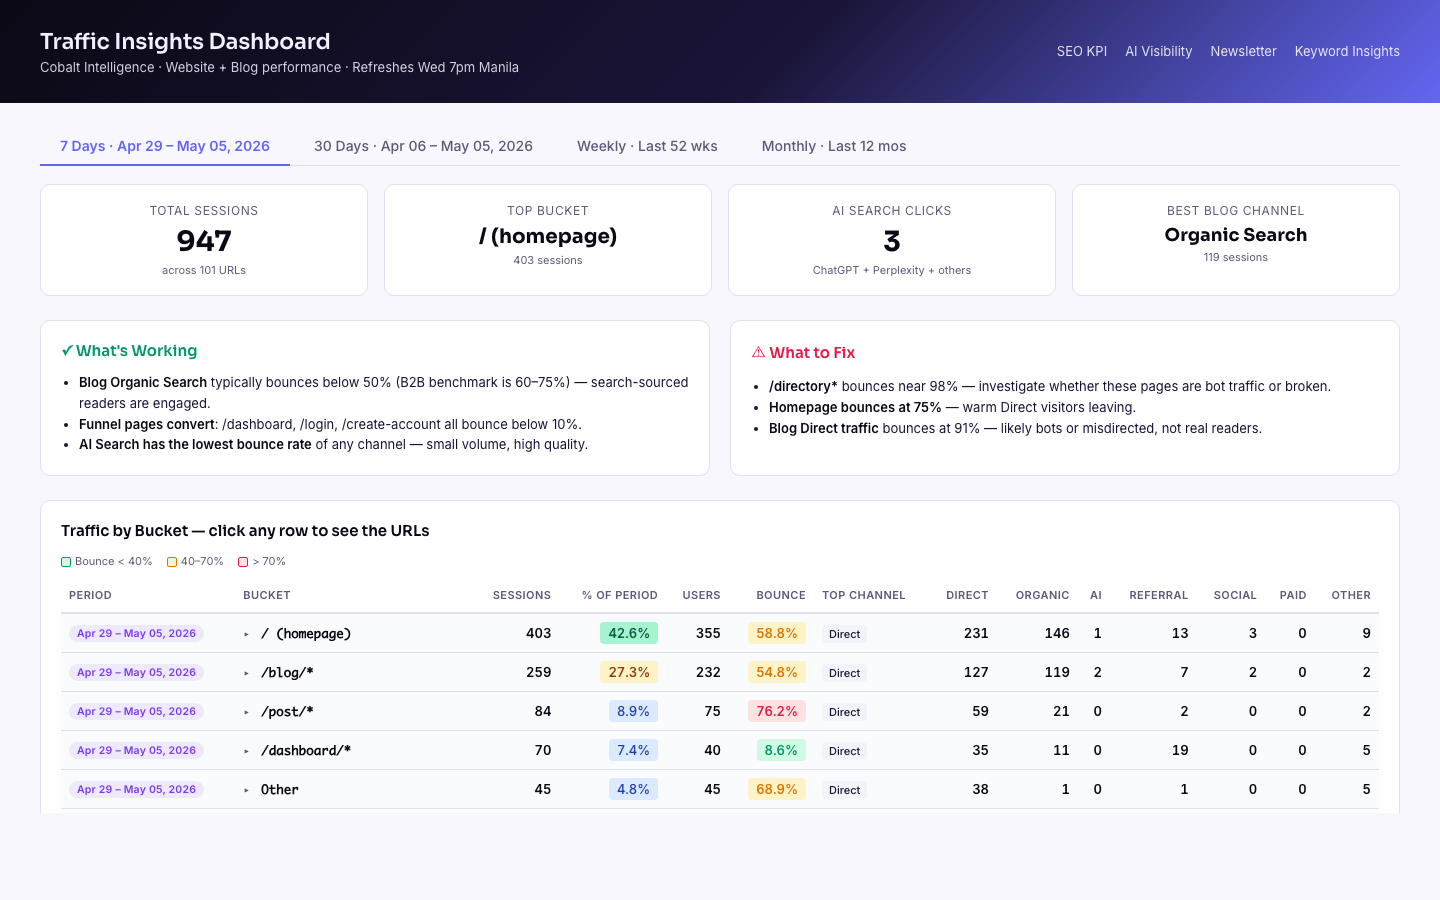
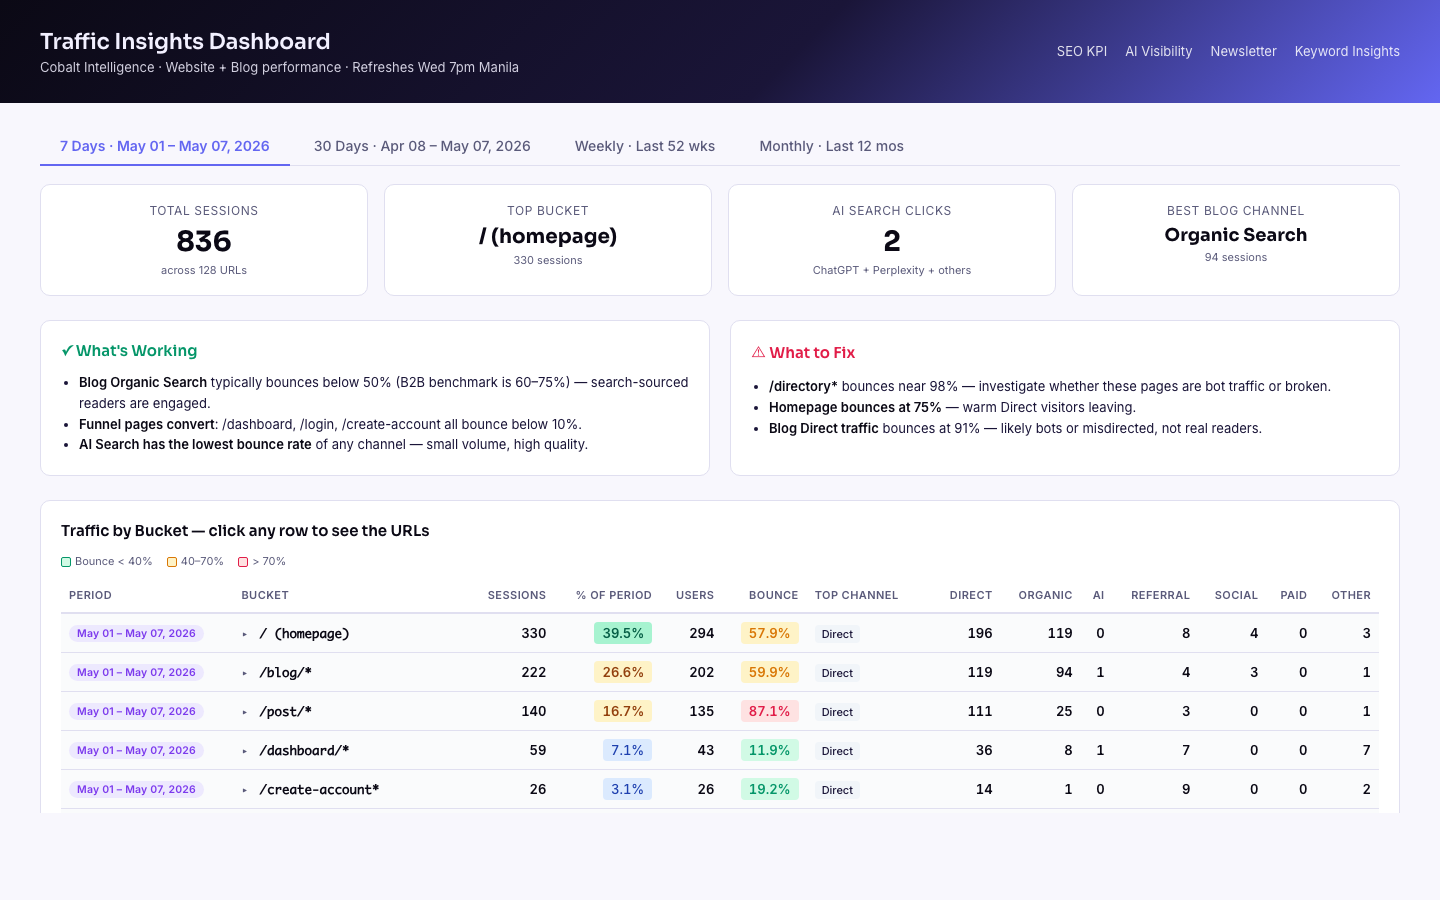
Weekly status May 2-8: refresh dashboards (May 8 data) + rewire DR card to OpenPageRank

diff --git a/index.html b/index.html
@@ -99,20 +99,20 @@
 <main>
 
   <div class="lede">
-    Attribution and content-credibility week. <strong>Working Planet's ConversionRuler tracking audit kicked off</strong>, Kent now has Edit access on the GTM container <code>GTM-KQD7J4K6</code>. <strong>Website CTA refinements deployed to production</strong> (single Book a Demo above the fold, persistent header CTA, scroll-position routing). <strong>Submit Smarter Brief approved</strong> by Jordan for Broker Fair distribution. <strong>SOS Reliability Index pivoted to Plan B</strong> (publicly-researchable state SOS data only) after Jordan flagged Cobalt-internal-data sensitivity. <strong>Idea Financial case study Q&amp;A revised</strong> with Patricia.
+    Attribution and content-credibility week. <strong>Conversions accelerated even as traffic compressed</strong>: 8 booked calls (up from 3 prior week) and 28 created accounts (up from 19) on 12,044 users. <strong>Working Planet's ConversionRuler tracking audit kicked off</strong>, Kent now has Edit access on the GTM container <code>GTM-KQD7J4K6</code>. <strong>Website CTA refinements deployed to production</strong> mid-week (single Book a Demo above the fold, persistent header CTA, scroll-position routing). <strong>Submit Smarter Brief approved</strong> by Jordan for Broker Fair distribution. <strong>SOS Reliability Index pivoted to Plan B</strong> (publicly-researchable state SOS data only) after Jordan flagged Cobalt-internal-data sensitivity. <strong>Idea Financial case study Q&amp;A revised</strong> with Patricia.
   </div>
 
   <section class="module">
     <h2>Dashboard summary</h2>
     <div class="group" style="margin-bottom: 0;">
       <ul>
-        <li><strong>Website Traffic</strong> still softening from the directory state-entity page changes. CTA refinements just shipped to prod, too early to read traffic impact this week.</li>
-        <li><strong>Website Page Performance</strong> sessions and bounce rate moving in the same expected pattern as last week.</li>
-        <li><strong>Domain Rating</strong> holding at 37, no movement in the last 7 days.</li>
-        <li><strong>AI Visibility</strong> 47.4% combined mention rate baseline maintained across 154 prompts and 9 engines.</li>
-        <li><strong>Wins:</strong> Cobalt continues to surface in best-of state-API lists and US-side state-API queries for business verification.</li>
-        <li><strong>Newsletter</strong> open rate steady above 50% across recent Beyond Banks editions.</li>
-        <li><strong>YouTube</strong> net subscriber motion still positive. Long-form watch hours steady, Shorts engagement holding.</li>
+        <li><strong>Website Traffic</strong> compressed to 12,044 total users this week (Apr 30 to May 6) versus 24,869 the prior week. Continuation of the softening pattern from the directory state-entity page changes.</li>
+        <li><strong>Conversions</strong> moved the opposite direction. <strong>8 booked calls</strong> (up from 3) and <strong>28 created accounts</strong> (up from 19). CTA refinements landed mid-week so the read is partial, signal is encouraging.</li>
+        <li><strong>Bounce Rate</strong> 68.4%, slightly below trend, supports the conversion lift narrative.</li>
+        <li><strong>Domain authority</strong> tracker switched from Ahrefs to OpenPageRank after the Ahrefs subscription was cancelled. Current OpenPageRank value <strong>3.27</strong> (integer 3), refreshed weekly. Not directly comparable to the prior Ahrefs DR 37.</li>
+        <li><strong>AI Visibility</strong> 47.4% combined mention rate baseline across 154 prompts and 9 engines, no change since last refresh.</li>
+        <li><strong>Newsletter</strong> open rate trend steady, latest Beyond Banks editions tracking above the 50% average.</li>
+        <li><strong>YouTube</strong> latest month watch hours holding, views down ~8% month over month, engagement softer (likes ~half of prior month). Worth watching, not yet a trend break.</li>
       </ul>
     </div>
   </section>
@@ -235,7 +235,7 @@
         <h3>SEO KPI · year-to-date</h3>
         <div class="src"><a href="https://laladim.github.io/life-dashboard-site/seo-kpi-dashboard.html">Live dashboard</a> · Ahrefs DR + GA4 weekly + monthly</div>
       </div>
-      <img src="assets/seo-kpi-dashboard.png" alt="SEO KPI Dashboard year-to-date with Domain Rating, total users, sessions, page views, booked calls, created accounts, plus monthly trend charts and full data table from Jan 2025 to present." />
+      <img src="assets/seo-kpi-dashboard.png" alt="SEO KPI Dashboard year-to-date. Latest week (Apr 30 to May 6, 2026): 12,044 total users, 11,064 new users, 12,995 sessions, 16,047 page views, 8 booked calls, 28 created accounts. OpenPageRank 3.27. Refreshed May 8, 2026." />
     </div>
 
     <div class="dash-card">
@@ -273,7 +273,7 @@
   </section>
 
   <footer class="meta-footer">
-    <div>Generated May 8, 2026 · Source: Slack conversations + dashboard live snapshots.</div>
+    <div>Generated May 8, 2026 · Source: Slack conversations May 2 to May 8 + live dashboard snapshots refreshed May 8.</div>
     <div>Repo: <a href="https://github.com/cobaltshela/cobalt-weekly-status">github.com/cobaltshela/cobalt-weekly-status</a></div>
   </footer>
 